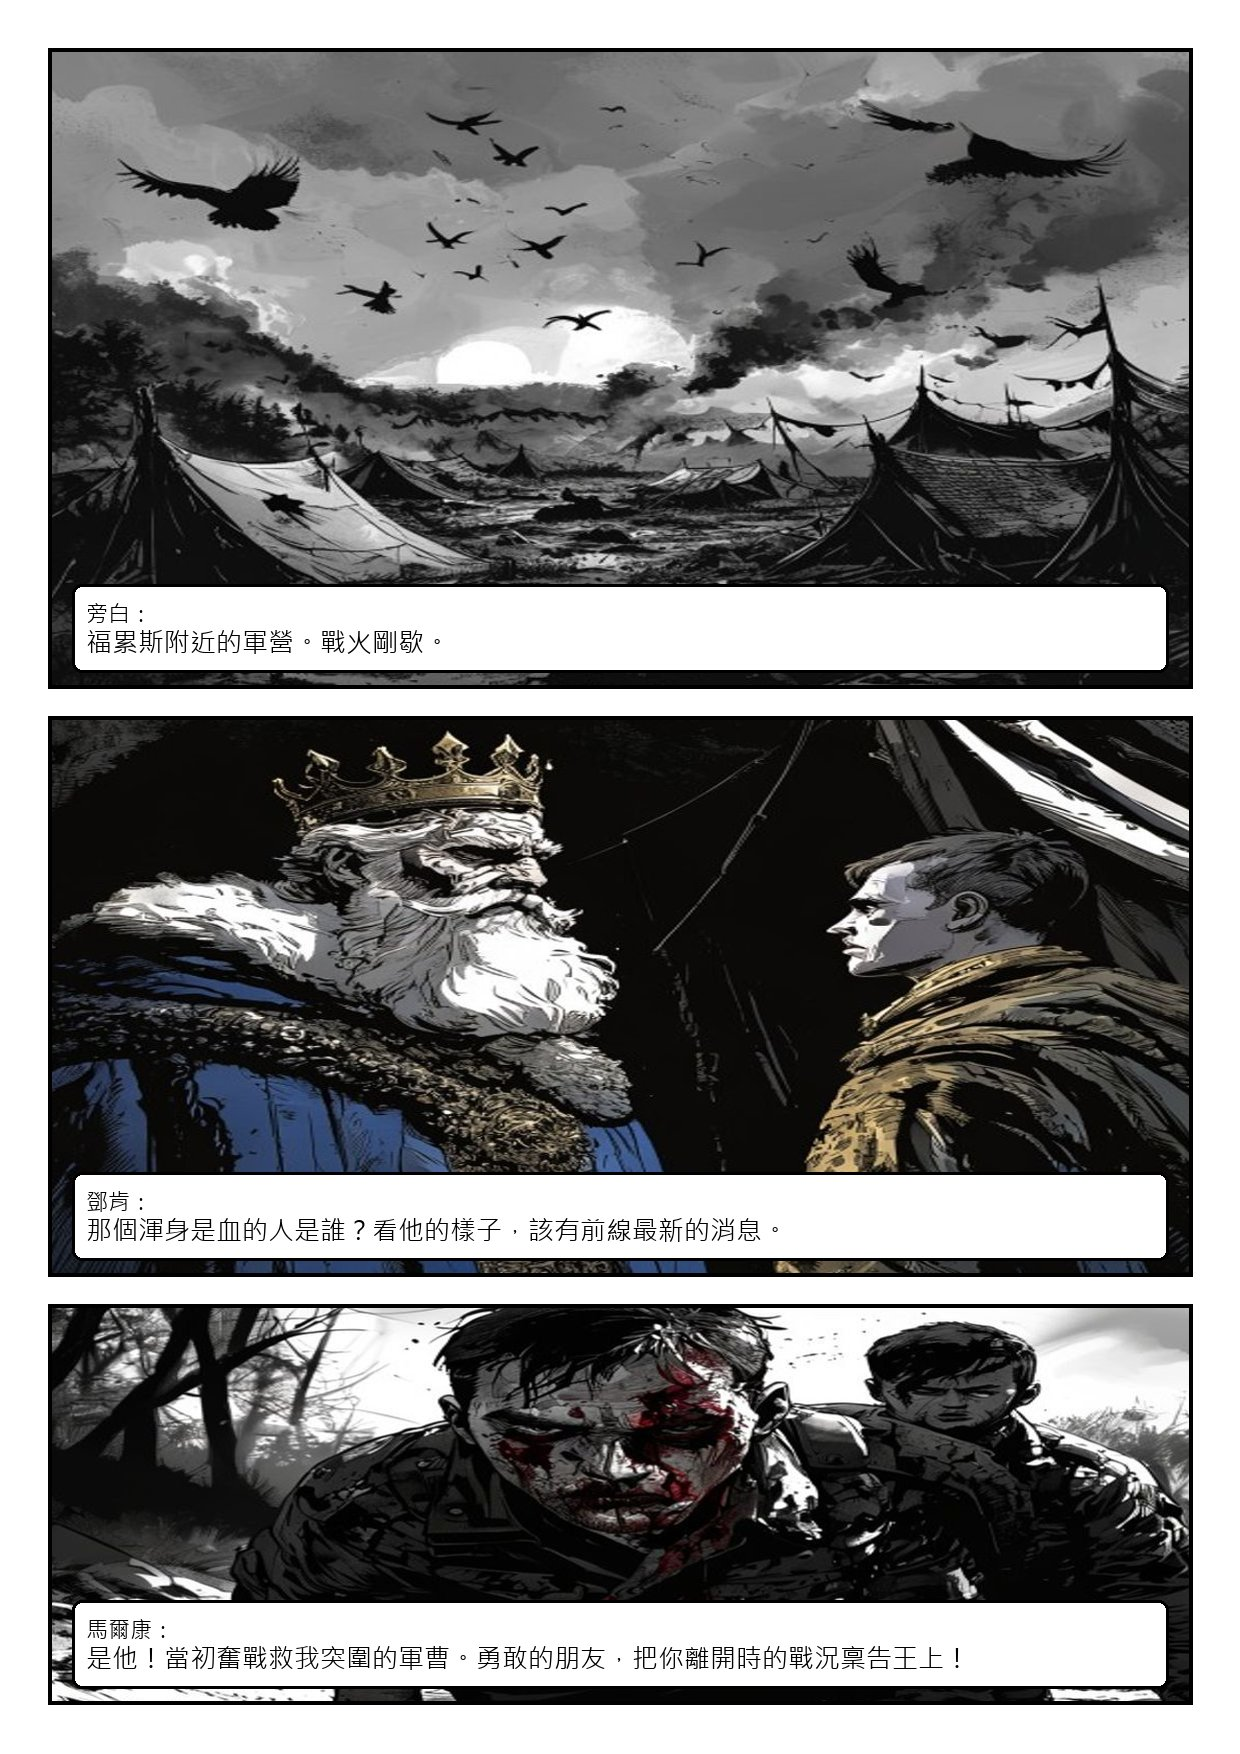
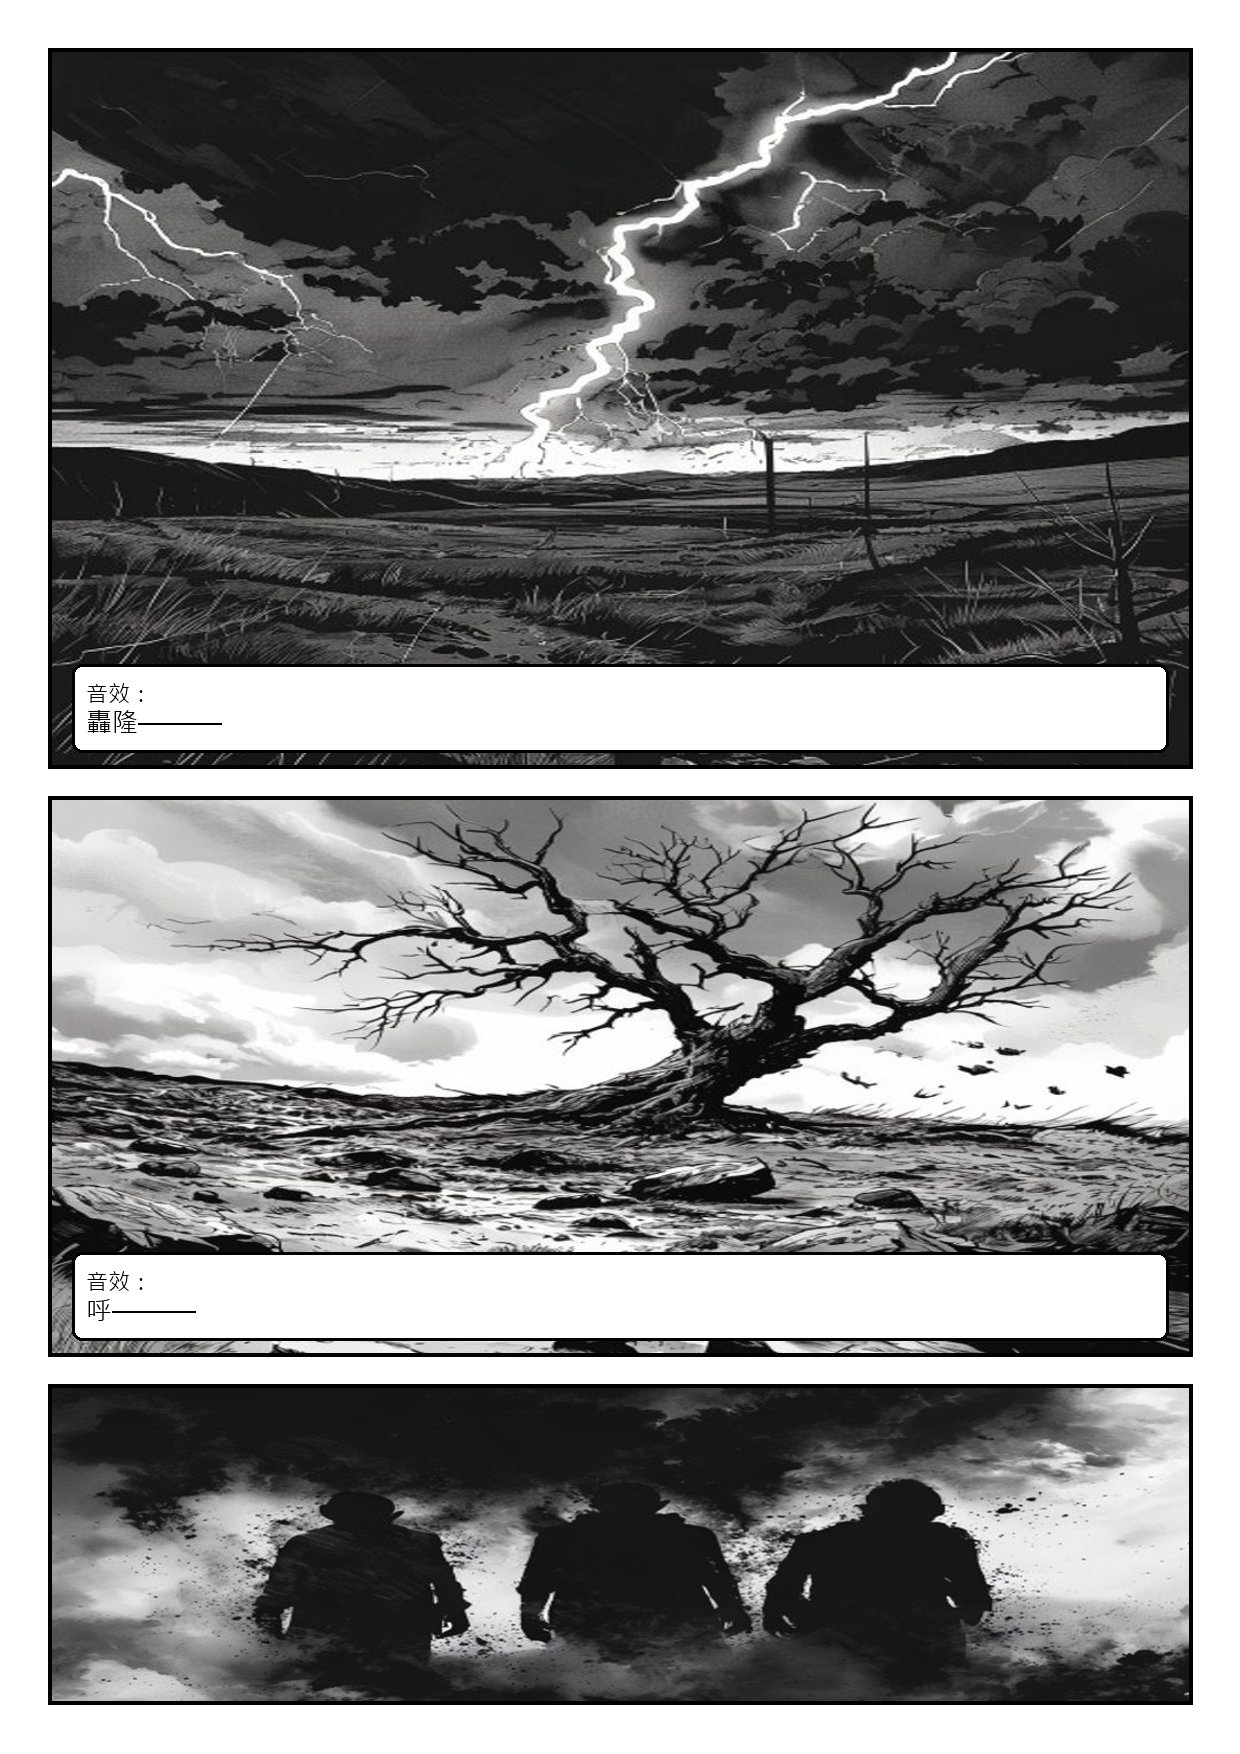
feat: 1-2 戰報、1-3 女巫預言首輪草稿上站，三場閱讀動線串接
- 1-2（6 頁）、1-3（8 頁）閱讀頁＋JPG，含本場人物角註
- 1-1 JPG 換最新重生版；data-next-url 串 1-2，1-2 串 1-3
- 完場導引改為可點的「下一場」連結（1-3 尾接夫人讀信製作中）
- 目錄卡片 1-2、1-3 開連結，狀態改「首輪草稿刊出」
- style.css 全域連結色統一金色

diff --git a/shakespeare/macbeth/1-3/index.html b/shakespeare/macbeth/1-3/index.html
@@ -3,7 +3,7 @@
 <head>
   <meta charset="UTF-8">
   <meta name="viewport" content="width=device-width, initial-scale=1.0">
-  <title>馬克白 1-1 荒野女巫 — Bard Comics</title>
+  <title>馬克白 1-3 女巫預言 — Bard Comics</title>
   <link rel="preconnect" href="https://fonts.googleapis.com">
   <link rel="preconnect" href="https://fonts.gstatic.com" crossorigin>
   <link href="https://fonts.googleapis.com/css2?family=Cinzel:wght@500;700&family=Noto+Serif+TC:wght@400;700;900&display=swap" rel="stylesheet">
@@ -12,15 +12,15 @@
 </head>
 <body>
   <main>
-    <nav class="crumbs"><a href="../../../">BARD COMICS</a> ／ <a href="../../">莎士比亞戲劇</a> ／ <a href="../">馬克白</a> ／ 第一幕・第一場</nav>
+    <nav class="crumbs"><a href="../../../">BARD COMICS</a> ／ <a href="../../">莎士比亞戲劇</a> ／ <a href="../">馬克白</a> ／ 第一幕・第三場</nav>
     <header class="masthead">
-      <p class="house">Act I · Scene I</p>
-      <h1>荒野女巫<span class="latin">A Desert Place. Thunder and Lightning.</span></h1>
+      <p class="house">Act I · Scene III</p>
+      <h1>女巫預言<span class="latin">A Heath near Forres. Thunder.</span></h1>
       <div class="ornament">❦</div>
-      <p class="tagline">雷電交加的荒野，三女巫立下與馬克白的約。</p>
+      <p class="tagline">「萬福，馬克白，未來的君王！」預言第一次應驗，殺機第一次萌芽。</p>
     </header>
 
-    <p class="cast-strip"><span class="label">本場人物</span>女巫甲・<span class="mark">獨眼</span>／女巫乙・<span class="mark">裂嘴</span>／女巫丙・<span class="mark">白瞳</span></p>
+    <p class="cast-strip"><span class="label">本場人物</span>女巫甲・<span class="mark">獨眼</span>／女巫乙・<span class="mark">裂嘴</span>／女巫丙・<span class="mark">白瞳</span>／馬克白・<span class="mark">左頰疤</span>／班柯・<span class="mark">辮鬚鴉羽</span>／洛斯・<span class="mark">灰斗篷</span></p>
 
     <p class="draft-note">首輪草稿・Pollinations 免費生圖——校構圖與對白用，角色定裝後會全面重生</p>
 
@@ -29,17 +29,20 @@
       <button id="mode-scroll" class="mode-btn" type="button">卷軸 Scroll</button>
     </div>
 
-    <section class="comic-pages" id="reader" data-next-url="../1-2/" data-next-label="下一場">
-      <img src="page_01.jpg" alt="第 1 頁：荒野遠景，雷電交加" loading="lazy">
-      <img src="page_02.jpg" alt="第 2 頁：三女巫現身對話" loading="lazy">
-      <img src="page_03.jpg" alt="第 3 頁：相約荒野，去見馬克白" loading="lazy">
-      <img src="page_04.jpg" alt="第 4 頁：灰貓與蟾蜍的召喚" loading="lazy">
-      <img src="page_05.jpg" alt="第 5 頁：美即是醜，醜即是美" loading="lazy">
+    <section class="comic-pages" id="reader">
+      <img src="page_01.jpg" alt="女巫預言 第 1 頁" loading="lazy">
+      <img src="page_02.jpg" alt="女巫預言 第 2 頁" loading="lazy">
+      <img src="page_03.jpg" alt="女巫預言 第 3 頁" loading="lazy">
+      <img src="page_04.jpg" alt="女巫預言 第 4 頁" loading="lazy">
+      <img src="page_05.jpg" alt="女巫預言 第 5 頁" loading="lazy">
+      <img src="page_06.jpg" alt="女巫預言 第 6 頁" loading="lazy">
+      <img src="page_07.jpg" alt="女巫預言 第 7 頁" loading="lazy">
+      <img src="page_08.jpg" alt="女巫預言 第 8 頁" loading="lazy">
     </section>
 
     <nav class="pager" id="pager" hidden>
       <button id="prev" type="button">← 上一頁</button>
-      <span class="page-indicator" id="page-indicator">1 ／ 5</span>
+      <span class="page-indicator" id="page-indicator">1 ／ 8</span>
       <button id="next" type="button">下一頁 →</button>
       <button id="next-scene" class="scene-btn" type="button">下一場 »</button>
     </nav>
@@ -48,8 +51,8 @@
       <div class="ornament">❦</div>
       <p class="fin">本場完</p>
       <p class="next-scene">
-        <a href="../1-2/">下一場：第二場 戰報 »</a>
         <a href="../">回節目單 Programme</a>
+        <span class="soon">下一場：夫人讀信（製作中）</span>
       </p>
     </nav>
 

diff --git a/shakespeare/macbeth/1-2/index.html b/shakespeare/macbeth/1-2/index.html
@@ -3,7 +3,7 @@
 <head>
   <meta charset="UTF-8">
   <meta name="viewport" content="width=device-width, initial-scale=1.0">
-  <title>馬克白 1-1 荒野女巫 — Bard Comics</title>
+  <title>馬克白 1-2 戰報 — Bard Comics</title>
   <link rel="preconnect" href="https://fonts.googleapis.com">
   <link rel="preconnect" href="https://fonts.gstatic.com" crossorigin>
   <link href="https://fonts.googleapis.com/css2?family=Cinzel:wght@500;700&family=Noto+Serif+TC:wght@400;700;900&display=swap" rel="stylesheet">
@@ -12,15 +12,15 @@
 </head>
 <body>
   <main>
-    <nav class="crumbs"><a href="../../../">BARD COMICS</a> ／ <a href="../../">莎士比亞戲劇</a> ／ <a href="../">馬克白</a> ／ 第一幕・第一場</nav>
+    <nav class="crumbs"><a href="../../../">BARD COMICS</a> ／ <a href="../../">莎士比亞戲劇</a> ／ <a href="../">馬克白</a> ／ 第一幕・第二場</nav>
     <header class="masthead">
-      <p class="house">Act I · Scene I</p>
-      <h1>荒野女巫<span class="latin">A Desert Place. Thunder and Lightning.</span></h1>
+      <p class="house">Act I · Scene II</p>
+      <h1>戰報<span class="latin">A Camp near Forres. Alarum within.</span></h1>
       <div class="ornament">❦</div>
-      <p class="tagline">雷電交加的荒野，三女巫立下與馬克白的約。</p>
+      <p class="tagline">浴血的軍曹向國王報告馬克白的戰功。</p>
     </header>
 
-    <p class="cast-strip"><span class="label">本場人物</span>女巫甲・<span class="mark">獨眼</span>／女巫乙・<span class="mark">裂嘴</span>／女巫丙・<span class="mark">白瞳</span></p>
+    <p class="cast-strip"><span class="label">本場人物</span>鄧肯王・<span class="mark">白鬚金冠</span>／馬爾康・<span class="mark">金髮細冠</span>／洛斯・<span class="mark">灰斗篷</span>／軍曹・<span class="mark">浴血</span></p>
 
     <p class="draft-note">首輪草稿・Pollinations 免費生圖——校構圖與對白用，角色定裝後會全面重生</p>
 
@@ -29,17 +29,18 @@
       <button id="mode-scroll" class="mode-btn" type="button">卷軸 Scroll</button>
     </div>
 
-    <section class="comic-pages" id="reader" data-next-url="../1-2/" data-next-label="下一場">
-      <img src="page_01.jpg" alt="第 1 頁：荒野遠景，雷電交加" loading="lazy">
-      <img src="page_02.jpg" alt="第 2 頁：三女巫現身對話" loading="lazy">
-      <img src="page_03.jpg" alt="第 3 頁：相約荒野，去見馬克白" loading="lazy">
-      <img src="page_04.jpg" alt="第 4 頁：灰貓與蟾蜍的召喚" loading="lazy">
-      <img src="page_05.jpg" alt="第 5 頁：美即是醜，醜即是美" loading="lazy">
+    <section class="comic-pages" id="reader" data-next-url="../1-3/" data-next-label="下一場">
+      <img src="page_01.jpg" alt="戰報 第 1 頁" loading="lazy">
+      <img src="page_02.jpg" alt="戰報 第 2 頁" loading="lazy">
+      <img src="page_03.jpg" alt="戰報 第 3 頁" loading="lazy">
+      <img src="page_04.jpg" alt="戰報 第 4 頁" loading="lazy">
+      <img src="page_05.jpg" alt="戰報 第 5 頁" loading="lazy">
+      <img src="page_06.jpg" alt="戰報 第 6 頁" loading="lazy">
     </section>
 
     <nav class="pager" id="pager" hidden>
       <button id="prev" type="button">← 上一頁</button>
-      <span class="page-indicator" id="page-indicator">1 ／ 5</span>
+      <span class="page-indicator" id="page-indicator">1 ／ 6</span>
       <button id="next" type="button">下一頁 →</button>
       <button id="next-scene" class="scene-btn" type="button">下一場 »</button>
     </nav>
@@ -48,7 +49,7 @@
       <div class="ornament">❦</div>
       <p class="fin">本場完</p>
       <p class="next-scene">
-        <a href="../1-2/">下一場：第二場 戰報 »</a>
+        <a href="../1-3/">下一場：第三場 女巫預言 »</a>
         <a href="../">回節目單 Programme</a>
       </p>
     </nav>

diff --git a/shakespeare/macbeth/index.html b/shakespeare/macbeth/index.html
@@ -7,7 +7,7 @@
   <link rel="preconnect" href="https://fonts.googleapis.com">
   <link rel="preconnect" href="https://fonts.gstatic.com" crossorigin>
   <link href="https://fonts.googleapis.com/css2?family=Cinzel:wght@500;700&family=Noto+Serif+TC:wght@400;700;900&display=swap" rel="stylesheet">
-  <link rel="stylesheet" href="../../assets/style.css">
+  <link rel="stylesheet" href="../../assets/style.css?v=2">
 </head>
 <body>
   <main>
@@ -73,18 +73,18 @@
           </a>
         </li>
         <li>
-          <div class="card">
-            <p class="bill now">In Production・分鏡完成</p>
+          <a class="card" href="1-2/">
+            <p class="bill now">First Draft・首輪草稿刊出</p>
             <h3>第二場　戰報<span class="latin">Act I, Scene II</span></h3>
-            <p>浴血的軍曹向國王報告馬克白的戰功。分鏡完成（6 頁），待生圖。</p>
-          </div>
+            <p>浴血的軍曹向國王報告馬克白的戰功。首輪草稿 6 頁已刊出。</p>
+          </a>
         </li>
         <li>
-          <div class="card">
-            <p class="bill now">In Production・分鏡完成</p>
+          <a class="card" href="1-3/">
+            <p class="bill now">First Draft・首輪草稿刊出</p>
             <h3>第三場　女巫預言<span class="latin">Act I, Scene III</span></h3>
-            <p>「萬福，馬克白，未來的君王！」預言第一次應驗，殺機第一次萌芽。分鏡完成（8 頁），待生圖。</p>
-          </div>
+            <p>「萬福，馬克白，未來的君王！」預言第一次應驗，殺機第一次萌芽。首輪草稿 8 頁已刊出。</p>
+          </a>
         </li>
         <li>
           <div class="card">

diff --git a/assets/style.css b/assets/style.css
@@ -16,6 +16,10 @@
 
 * { margin: 0; padding: 0; box-sizing: border-box; }
 
+/* 全域連結底色：任何沒被特別指定的 <a>（含 :visited）都走金色，
+   不讓瀏覽器預設的藍/紫跑出來破壞舞台色調 */
+a, a:visited { color: var(--gold); }
+
 body {
   background:
     radial-gradient(ellipse 120% 70% at 50% -10%, var(--spot) 0%, var(--stage) 60%),
